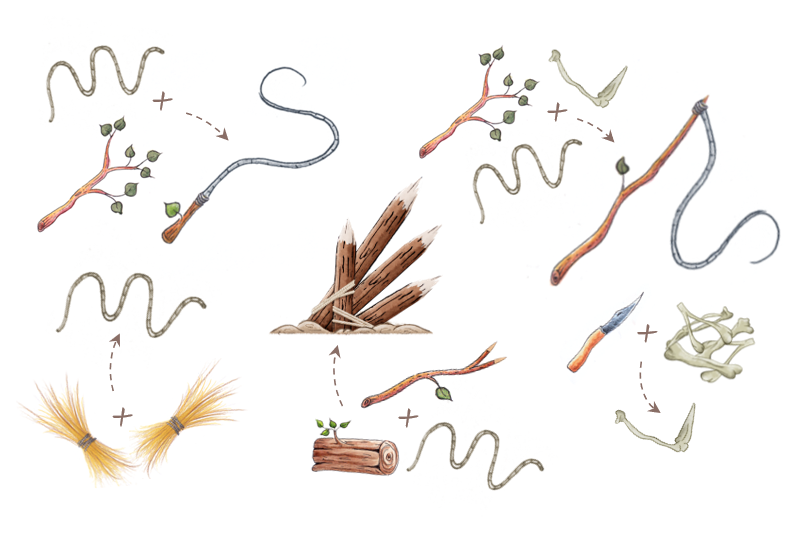
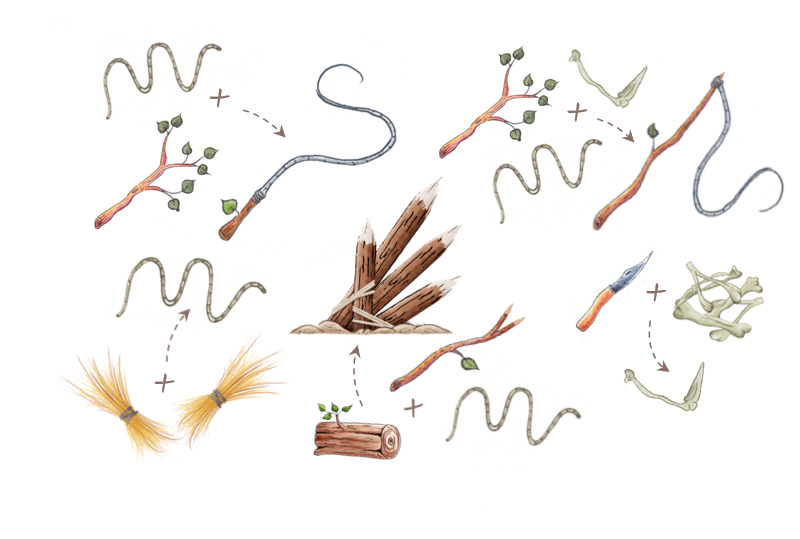
started second crafting options

diff --git a/js/props.js b/js/props.js
@@ -145,8 +145,8 @@ var buildingProps = {
   'train-wreck-1': { locked: 0, spawn: 3, items: ['snack-1', 'snack-2', 'drink-2', 'drink-5', 'wine'] },
   'market': { locked: 2, spawn: 3, items: ['bread-1', 'bread-2', 'wine', 'snack-1', 'snack-2', 'energy-pills', 'knife', 'tape', 'drink-3', 'drink-4', 'exodus'] },
   'gas-station': { locked: 2, spawn: 3, items: ['bread-1', 'bread-2', 'wine', 'snack-1', 'snack-2', 'energy-pills', 'knife', 'tape', 'drink-2', 'drink-1', 'exodus'] },
-  'tool-shed': { locked: 2, spawn: 2, items: ['cloth', 'claw', 'fail', 'hacksaw', 'exodus', 'knife', 'mallet', 'pincers', 'tape'] },
-  'garage': { locked: 3, spawn: 3, items: ['cloth', 'claw', 'fail', 'hacksaw', 'exodus', 'knife', 'mallet', 'pincers', 'tape', 'nails'] },
+  'tool-shed': { locked: 2, spawn: 2, items: ['cloth', 'rope', 'fail', 'hacksaw', 'knife', 'mallet', 'pincers', 'tape'] },
+  'garage': { locked: 3, spawn: 3, items: ['cloth', 'rope', 'fail', 'hacksaw', 'knife', 'mallet', 'pincers', 'tape', 'nails'] },
   'well': { locked: 0, spawn: 1, items: ['rosehip', 'bones', 'mushroom-1', 'stone', 'froggy']},
   'jetty': { locked: 0, spawn: 1, items: ['reef', 'rosehip', 'stone', 'duck', 'froggy'], amount: 2 },
   'seating': { locked: 0, spawn: 1, items: ['drink-1', 'drink-2', 'snack-1', 'snack-2'] },
@@ -154,7 +154,7 @@ var buildingProps = {
   'cottage': { locked: 2, spawn: 3, items: ['bread-2', 'wine', 'snack-1', 'snack-2', 'knife', 'drink-2', 'drink-5', 'exodus'] },
   'fireplace': { locked: 0, spawn: 0, items: [] },
   'crate': { locked: 11, spawn: 1, items: ['axe', 'wrench', 'baseball-bat'] }, // always locked
-  'human-corpse-1': { locked: 0, spawn: 3, items: ['wine', 'snack-1', 'bread-2', 'energy-pills', 'snack-2', 'knife', 'drink-2', 'drink-5', 'exodus', 'cloth', 'wooden-club'] },
+  'human-corpse-1': { locked: 0, spawn: 3, items: ['wine', 'snack-1', 'bread-2', 'energy-pills', 'snack-2', 'knife', 'drink-2', 'drink-5', 'exodus', 'cloth', 'rope', 'wooden-club'] },
 };
 
 var buildingActions = {
@@ -193,8 +193,23 @@ var craftingRecipes = {
     exclusive: true,
     result: 'weapon'
   },
+  'improvised-whip': {
+    items: [ ['rope'], ['branch'] ],
+    exclusive: true,
+    result: 'weapon'
+  },
+  'fishing-rod': {
+    items: [ ['rope'], ['branch'], ['bone-hook'] ],
+    exclusive: true,
+    result: 'weapon'
+  },
   'fireplace': {
     items: [ ['stone'], ['stump'], ['straw-wheet'] ],
+    exclusive: false,
+    result: 'building'
+  },
+  'barricades': {
+    items: [ ['rope'], ['stump'], ['sharp-stick'] ],
     exclusive: false,
     result: 'building'
   },
@@ -205,6 +220,16 @@ var craftingRecipes = {
   },
   'sharp-stick': {
     items: [ ['branch'], ['knife'] ],
+    exclusive: false,
+    result: 'inventory'
+  },
+  'bone-hook': {
+    items: [ ['bones'], ['knife'] ],
+    exclusive: false,
+    result: 'inventory'
+  },
+  'rope': {
+    items: [ ['straw-wheet'], ['straw-wheet'] ],
     exclusive: false,
     result: 'inventory'
   }
@@ -257,55 +282,57 @@ var targetLocations = {
 /* ['type', hunger, thirst, energy, attack, defense] */
 var items = {
   'acorn': ['eat', 1, 0, 0],
-  'bones': ['craft', 0, 0, 0, 2, 0],
+  'rosehip': ['eat', 2, 2, 0],
+  'hawthorn': ['eat', 2, 2, 0],
+  'physalis': ['eat', 2, 2, 0],
   'branch': ['craft', 0, 0, 0, 1, 1],
-  'bread-1': ['eat', 45, 0, 20],
-  'bread-2': ['eat', 40, 0, 20],
-  'cloth': ['craft', 0, 0, 0, 4, 2],
-  'books': ['craft', 0, 0, 0, 0, 2],
+  'stone': ['craft', 0, 0, 0, 4, 1],
+  'straw-wheet': ['craft', 0, 0, 0, 0, 0],
+  'stump': ['craft', 0, 0, 0, 3, 3],
+  'reef': ['craft', 0, 0, 0, 1, 1],
+  'fruit-1': ['eat', 2, 8, 2],
+  'fruit-2': ['eat', 4, 8, 2],
+  'fruit-3': ['eat', 3, 8, 2],
+  'mushroom-1': ['eat', 2, 2, 0],
+  'mushroom-2': ['eat', 4, 3, 0],
+  'roasted-mushroom': ['eat', 11, 5, 10],
+  'pumpkin': ['eat', 15, 15, 10],
+  'roasted-pumpkin': ['eat', 8, 6, 7],
+  'pepper': ['eat', 8, 5, 0],
+  'roasted-pepper': ['eat', 22, 5, 20],
+  'meat': ['eat', 3, 5, 0],
+  'roasted-meat': ['eat', 30, 15, 30],
+  'tomato': ['eat', 4, 8, 3],
   'carrot': ['eat', 6, 4, 0],
-  'claw': ['craft', 0, 0, 0, 4, 2],
   'drink-1': ['drink', 0, 30, 0],
   'drink-2': ['drink', 0, 35, 0],
   'drink-3': ['drink', 5, 25, 5],
   'drink-4': ['drink', 5, 25, 5],
   'drink-5': ['drink', 10, 30, 10],
-  'fruit-1': ['eat', 2, 8, 2],
-  'fruit-2': ['eat', 4, 8, 2],
-  'fruit-3': ['eat', 3, 8, 2],
-  'glue': ['craft', 0, 0, 0, 5, 2],
-  'honey': ['eat', 15, 5, 25, 3, 2],
-  'energy-pills': ['eat', 0, 0, 50, 1, 1],
-  'exodus': ['craft', 0, 0, 0, 4, 2],
-  'fail': ['craft', 0, 0, 0, 3, 2],
-  'hacksaw': ['craft', 0, 0, 0, 3, 2],
-  'hawthorn': ['eat', 2, 2, 0],
-  'knife': ['craft', 0, 0, 0, 4, 1],
-  'mallet': ['craft', 0, 0, 0, 5, 1],
-  'meat': ['eat', 3, 5, 0],
-  'roasted-meat': ['eat', 30, 15, 30],
-  'pepper': ['eat', 8, 5, 0],
-  'roasted-pepper': ['eat', 22, 5, 20],
-  'physalis': ['eat', 2, 2, 0],
-  'pincers': ['craft', 0, 0, 0, 3, 2],
-  'pumpkin': ['eat', 15, 15, 10],
-  'roasted-pumpkin': ['eat', 8, 6, 7],
-  'reef': ['craft', 0, 0, 0, 1, 1],
-  'rosehip': ['eat', 2, 2, 0],
-  'mushroom-1': ['eat', 2, 2, 0],
-  'mushroom-2': ['eat', 4, 3, 0],
-  'roasted-mushroom': ['eat', 11, 5, 10],
-  'sharp-stick': ['craft', 0, 0, 0, 3, 3],
   'snack-1': ['eat', 25, 0, 10],
   'snack-2': ['eat', 25, 0, 10],
+  'bread-1': ['eat', 45, 0, 20],
+  'bread-2': ['eat', 40, 0, 20],
+  'wine': ['drink', 5, 35, 20],
+  'honey': ['eat', 15, 5, 25, 3, 2],
+  'energy-pills': ['eat', 0, 0, 50, 1, 1],
+  'bones': ['craft', 0, 0, 0, 2, 0],
+  'cloth': ['craft', 0, 0, 0, 4, 2],
+  'glue': ['craft', 0, 0, 0, 5, 2],
+  'knife': ['craft', 0, 0, 0, 4, 1],
+  'fail': ['craft', 0, 0, 0, 3, 2],
+  'hacksaw': ['craft', 0, 0, 0, 3, 2],
+  'tape': ['craft', 0, 0, 0, 1, 0],
+  'sharp-stick': ['craft', 0, 0, 0, 3, 3],
+  'pincers': ['craft', 0, 0, 0, 3, 2],
   'spanner': ['craft', 0, 0, 0, 3, 1],
   'nails': ['craft', 0, 0, 0, 2, 1],
-  'stone': ['craft', 0, 0, 0, 4, 1],
-  'straw-wheet': ['craft', 0, 0, 0, 0, 0],
-  'stump': ['craft', 0, 0, 0, 3, 3],
-  'tape': ['craft', 0, 0, 0, 1, 0],
-  'tomato': ['eat', 4, 8, 3],
-  'wine': ['drink', 5, 35, 20],
+  'books': ['craft', 0, 0, 0, 0, 2],
+  'claw': ['craft', 0, 0, 0, 4, 2],
+  'exodus': ['craft', 0, 0, 0, 4, 2],
+  'mallet': ['craft', 0, 0, 0, 5, 1],
+  'rope': ['craft', 0, 0, 0, 3, 1],
+  'bone-hook': ['craft', 0, 0, 0, 3, 1],
   'improvised-axe': ['extra', 0, 0, 0, weaponProps['improvised-axe'].attack, weaponProps['improvised-axe'].defense],
   'wooden-club': ['extra', 0, 0, 0, weaponProps['wooden-club'].attack, weaponProps['wooden-club'].defense],
   'wrench': ['extra', 0, 0, 0, weaponProps['wrench'].attack, weaponProps['wrench'].defense],

diff --git a/index.html b/index.html
@@ -521,25 +521,46 @@
           <p class="item-info"></p>
         </div>
         <div id="craft">
-          <div class="inner">
+          <div class="inner craft-1">
+            <div class="button-next"></div>
             <div class="button-craft" data-item="wooden-club" data-action="craft wooden club"><span class="material-symbols-outlined locked">lock</span>Craft</div>
             <div class="button-craft" data-item="improvised-axe" data-action="improvise an axe"><span class="material-symbols-outlined locked">lock</span>Craft</div>
             <div class="button-craft" data-item="fireplace" data-action="build a fireplace"><span class="material-symbols-outlined locked">lock</span>Build</div>
             <div class="button-craft" data-item="sharp-stick" data-action="carve sharp stick"><span class="material-symbols-outlined locked">lock</span>Carve</div>
-            <div class="button-craft" data-item="tape" data-action="craft tape"><span class="material-symbols-outlined locked">lock</span>Craft</div>
+            <div class="button-craft" data-item="tape" data-action="make a tape"><span class="material-symbols-outlined locked">lock</span>Make</div>
+            <div class="nope stump c-club"></div>
+            <div class="nope fail c-club"></div>
+            <div class="nope knife c-stick"></div>
+            <div class="nope branch c-stick"></div>
+            <div class="nope branch c-axe"></div>
+            <div class="nope stone c-axe"></div>
+            <div class="nope tape c-axe"></div>
+            <div class="nope stone c-fire"></div>
+            <div class="nope stump c-fire"></div>
+            <div class="nope straw-wheet c-fire"></div>
+            <div class="nope cloth c-tape"></div>
+            <div class="nope glue c-tape"></div>
           </div>
-          <div class="nope stump c-club"></div>
-          <div class="nope fail c-club"></div>
-          <div class="nope knife c-stick"></div>
-          <div class="nope branch c-stick"></div>
-          <div class="nope branch c-axe"></div>
-          <div class="nope stone c-axe"></div>
-          <div class="nope tape c-axe"></div>
-          <div class="nope stone c-fire"></div>
-          <div class="nope stump c-fire"></div>
-          <div class="nope straw-wheet c-fire"></div>
-          <div class="nope cloth c-tape"></div>
-          <div class="nope glue c-tape"></div>
+          <div class="inner craft-2 is--hidden">
+            <div class="button-prev"></div>
+            <div class="button-craft" data-item="improvised-whip" data-action="improvise a whip"><span class="material-symbols-outlined locked">lock</span>Craft</div>
+            <div class="button-craft" data-item="fishing-rod" data-action="craft a fishing rod"><span class="material-symbols-outlined locked">lock</span>Craft</div>
+            <div class="button-craft" data-item="rope" data-action="make rope"><span class="material-symbols-outlined locked">lock</span>Make</div>
+            <div class="button-craft" data-item="barricades" data-action="build barricades"><span class="material-symbols-outlined locked">lock</span>Build</div>
+            <div class="button-craft" data-item="bone-hook" data-action="carve a bone hook"><span class="material-symbols-outlined locked">lock</span>Carve</div>
+            <div class="nope stump c-club"></div>
+            <div class="nope fail c-club"></div>
+            <div class="nope knife c-stick"></div>
+            <div class="nope branch c-stick"></div>
+            <div class="nope branch c-axe"></div>
+            <div class="nope stone c-axe"></div>
+            <div class="nope tape c-axe"></div>
+            <div class="nope stone c-fire"></div>
+            <div class="nope stump c-fire"></div>
+            <div class="nope straw-wheet c-fire"></div>
+            <div class="nope cloth c-tape"></div>
+            <div class="nope glue c-tape"></div>
+          </div>
           <p class="info"></p>
         </div>
         <div id="maximap">

diff --git a/js/crafting.js b/js/crafting.js
@@ -39,6 +39,7 @@ export default {
 
     const target = ev.target;
     const clickButton = target.closest('.button-craft');
+    const navButton = target.closest('.button-next') || target.closest('.button-prev');
     const leftMouseButton = (ev.button === 0);
     const rightMouseButton = (ev.button === 2);
 
@@ -85,6 +86,15 @@ export default {
     } else if (clickButton && rightMouseButton) {
       const item = clickButton.dataset.item;
       Almanac.showPage(item, 'item', clickButton, craftContainer);
+    } else if (navButton && leftMouseButton) {
+      if (navButton.classList.contains('button-next')) {
+        console.log(craftContainer.querySelector('.inner.craft-1'));
+        craftContainer.querySelector('.inner.craft-1').classList.add('is--hidden');
+        craftContainer.querySelector('.inner.craft-2').classList.remove('is--hidden');
+      } else if (navButton.classList.contains('button-prev')) {
+        craftContainer.querySelector('.inner.craft-1').classList.remove('is--hidden');
+        craftContainer.querySelector('.inner.craft-2').classList.add('is--hidden');
+      }
     }
   },
 
@@ -133,14 +143,14 @@ export default {
       }
       if (prerequisitsFulfilled) {
         if (itemRecipe.exclusive && Items.inventoryContains(recipe)) {
-          craftContainer.querySelector('.button-craft[data-item="' + recipe + '"]').classList.remove('active');
-          craftContainer.querySelector('.button-craft[data-item="' + recipe + '"]').classList.add('only1');
+          craftContainer.querySelector('.button-craft[data-item="' + recipe + '"]')?.classList.remove('active');
+          craftContainer.querySelector('.button-craft[data-item="' + recipe + '"]')?.classList.add('only1');
         } else {
-          craftContainer.querySelector('.button-craft[data-item="' + recipe + '"]').classList.add('active');
+          craftContainer.querySelector('.button-craft[data-item="' + recipe + '"]')?.classList.add('active');
           craftingOptionsTotal += 1;
         }
       } else {
-        craftContainer.querySelector('.button-craft[data-item="' + recipe + '"]').classList.remove('active');
+        craftContainer.querySelector('.button-craft[data-item="' + recipe + '"]')?.classList.remove('active');
       }
     }
 

diff --git a/css/ui.css b/css/ui.css
@@ -168,12 +168,37 @@ ul#properties li.time {
   background: url(../img/ui/inventory.png) 0 0 no-repeat;
   transition: transform 0.3s ease-in-out;
 }
-#craft .inner {
+#craft .inner.craft-1,
+#craft .inner.craft-2 {
   position: absolute;
   left: 3%;
   width: 97%;
   height: 100%;
-  background: url(../img/ui/crafting.png) 0 0 no-repeat;
+}
+#craft .inner.craft-1 {
+  background: url(../img/ui/crafting-1.png) 0 0 no-repeat;
+}
+#craft .inner.craft-2 {
+  background: url(../img/ui/crafting-2.png) 0 0 no-repeat;
+}
+#craft .button-next {
+  position: absolute;
+  cursor: pointer;
+  width: 50px;
+  height: 50px;
+  background: url(../img/ui/back-button.png) 0 0 no-repeat;
+  transform: scaleX(-1);
+  right: 40px;
+  top: 45%;
+}
+#craft .button-prev {
+  position: absolute;
+  cursor: pointer;
+  width: 50px;
+  height: 50px;
+  background: url(../img/ui/back-button.png) 0 0 no-repeat;
+  left: 10px;
+  top: 45%;
 }
 #craft.active,
 #inventory.active {
@@ -228,6 +253,30 @@ ul#properties li.time {
   left: 588px;
   top: 396px;
 }
+
+/* crafting 2 */
+
+.button-craft[data-item="improvised-whip"] {
+  left: 230px;
+  top: 140px;
+}
+.button-craft[data-item="fishing-rod"] {
+  left: 590px;
+  top: 145px;
+}
+.button-craft[data-item="rope"] {
+  left: 95px;
+  top: 265px;
+}
+.button-craft[data-item="barricades"] {
+  left: 290px;
+  top: 240px;
+}
+.button-craft[data-item="bone-hook"] {
+  left: 590px;
+  top: 390px;
+}
+
 #inventory .inner {
   padding: 45px 40px;
 }

diff --git a/css/crafting.css b/css/crafting.css
@@ -16,50 +16,50 @@
 }
 
 .stump.c-club {
-  left: 174px;
+  left: 149px;
   top: 56px;
 }
 .fail.c-club {
-  left: 131px;
+  left: 110px;
   top: 134px;
 }
 .knife.c-stick {
-  left: 117px;
+  left: 92px;
   top: 370px;
 }
 .branch.c-stick {
-  left: 213px;
+  left: 187px;
   top: 363px;
 }
 .branch.c-axe {
-  left: 453px;
+  left: 430px;
   top: 95px;
 }
 .stone.c-axe {
-  left: 557px;
+  left: 530px;
   top: 55px;
 }
 .tape.c-axe {
-  left: 488px;
+  left: 463px;
   top: 138px;
 }
 .stone.c-fire {
-  left: 382px;
+  left: 357px;
   top: 415px;
 }
 .stump.c-fire {
-  left: 499px;
+  left: 474px;
   top: 415px;
 }
 .straw-wheet.c-fire {
-  left: 443px;
+  left: 418px;
   top: 365px;
 }
 .cloth.c-tape {
-  left: 639px;
+  left: 614px;
   top: 255px;
 }
 .glue.c-tape {
-  left: 570px;
+  left: 546px;
   top: 299px;
 }
